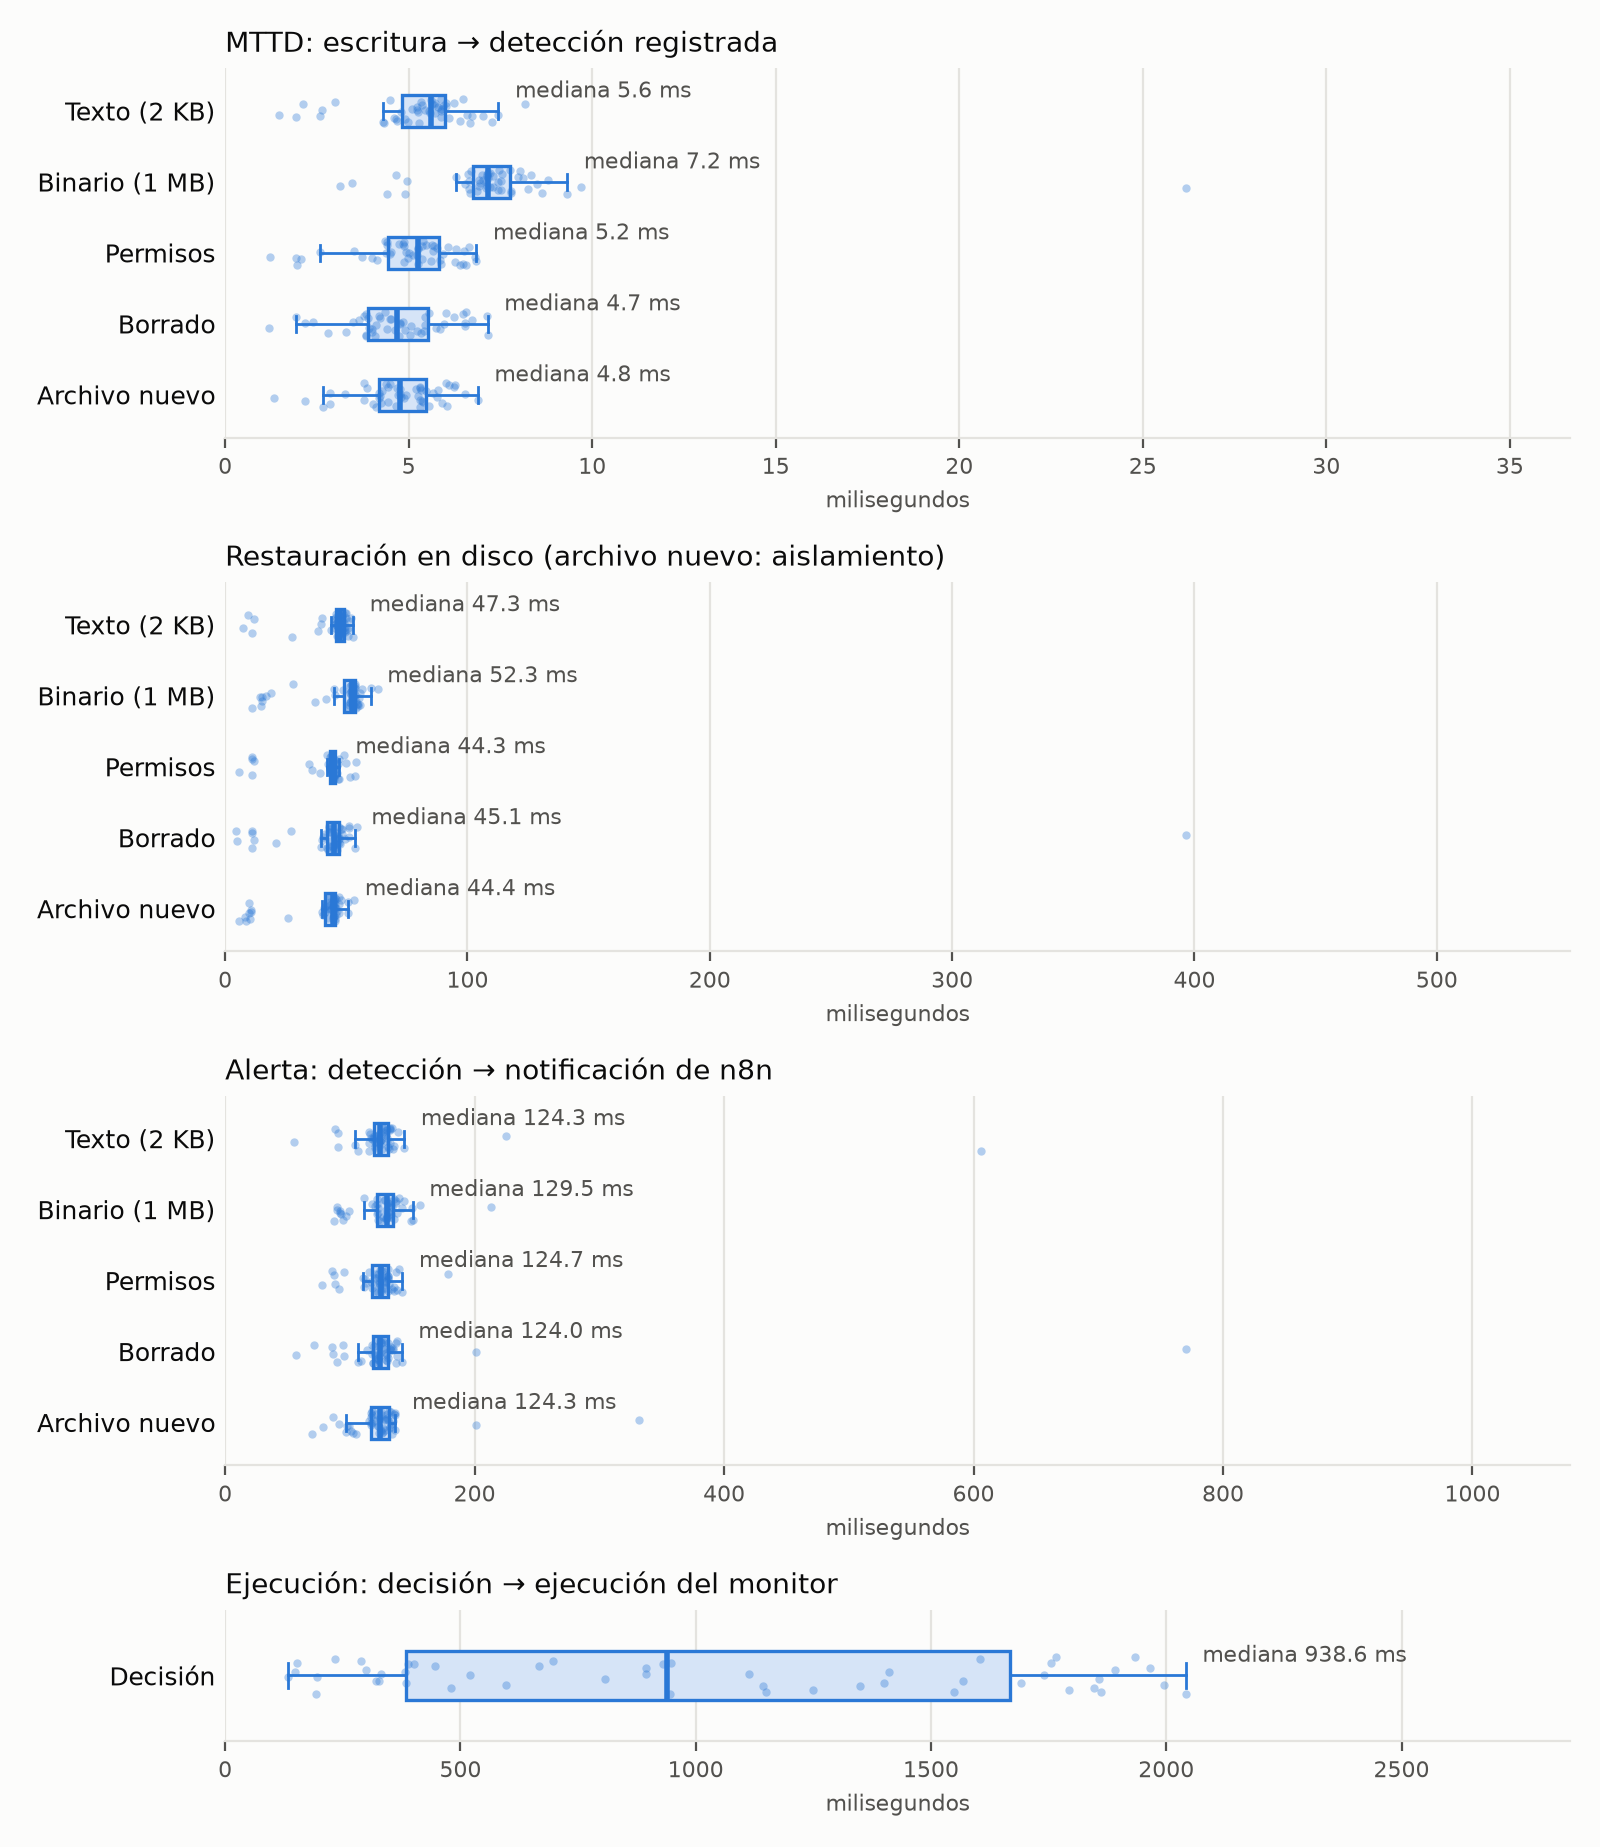
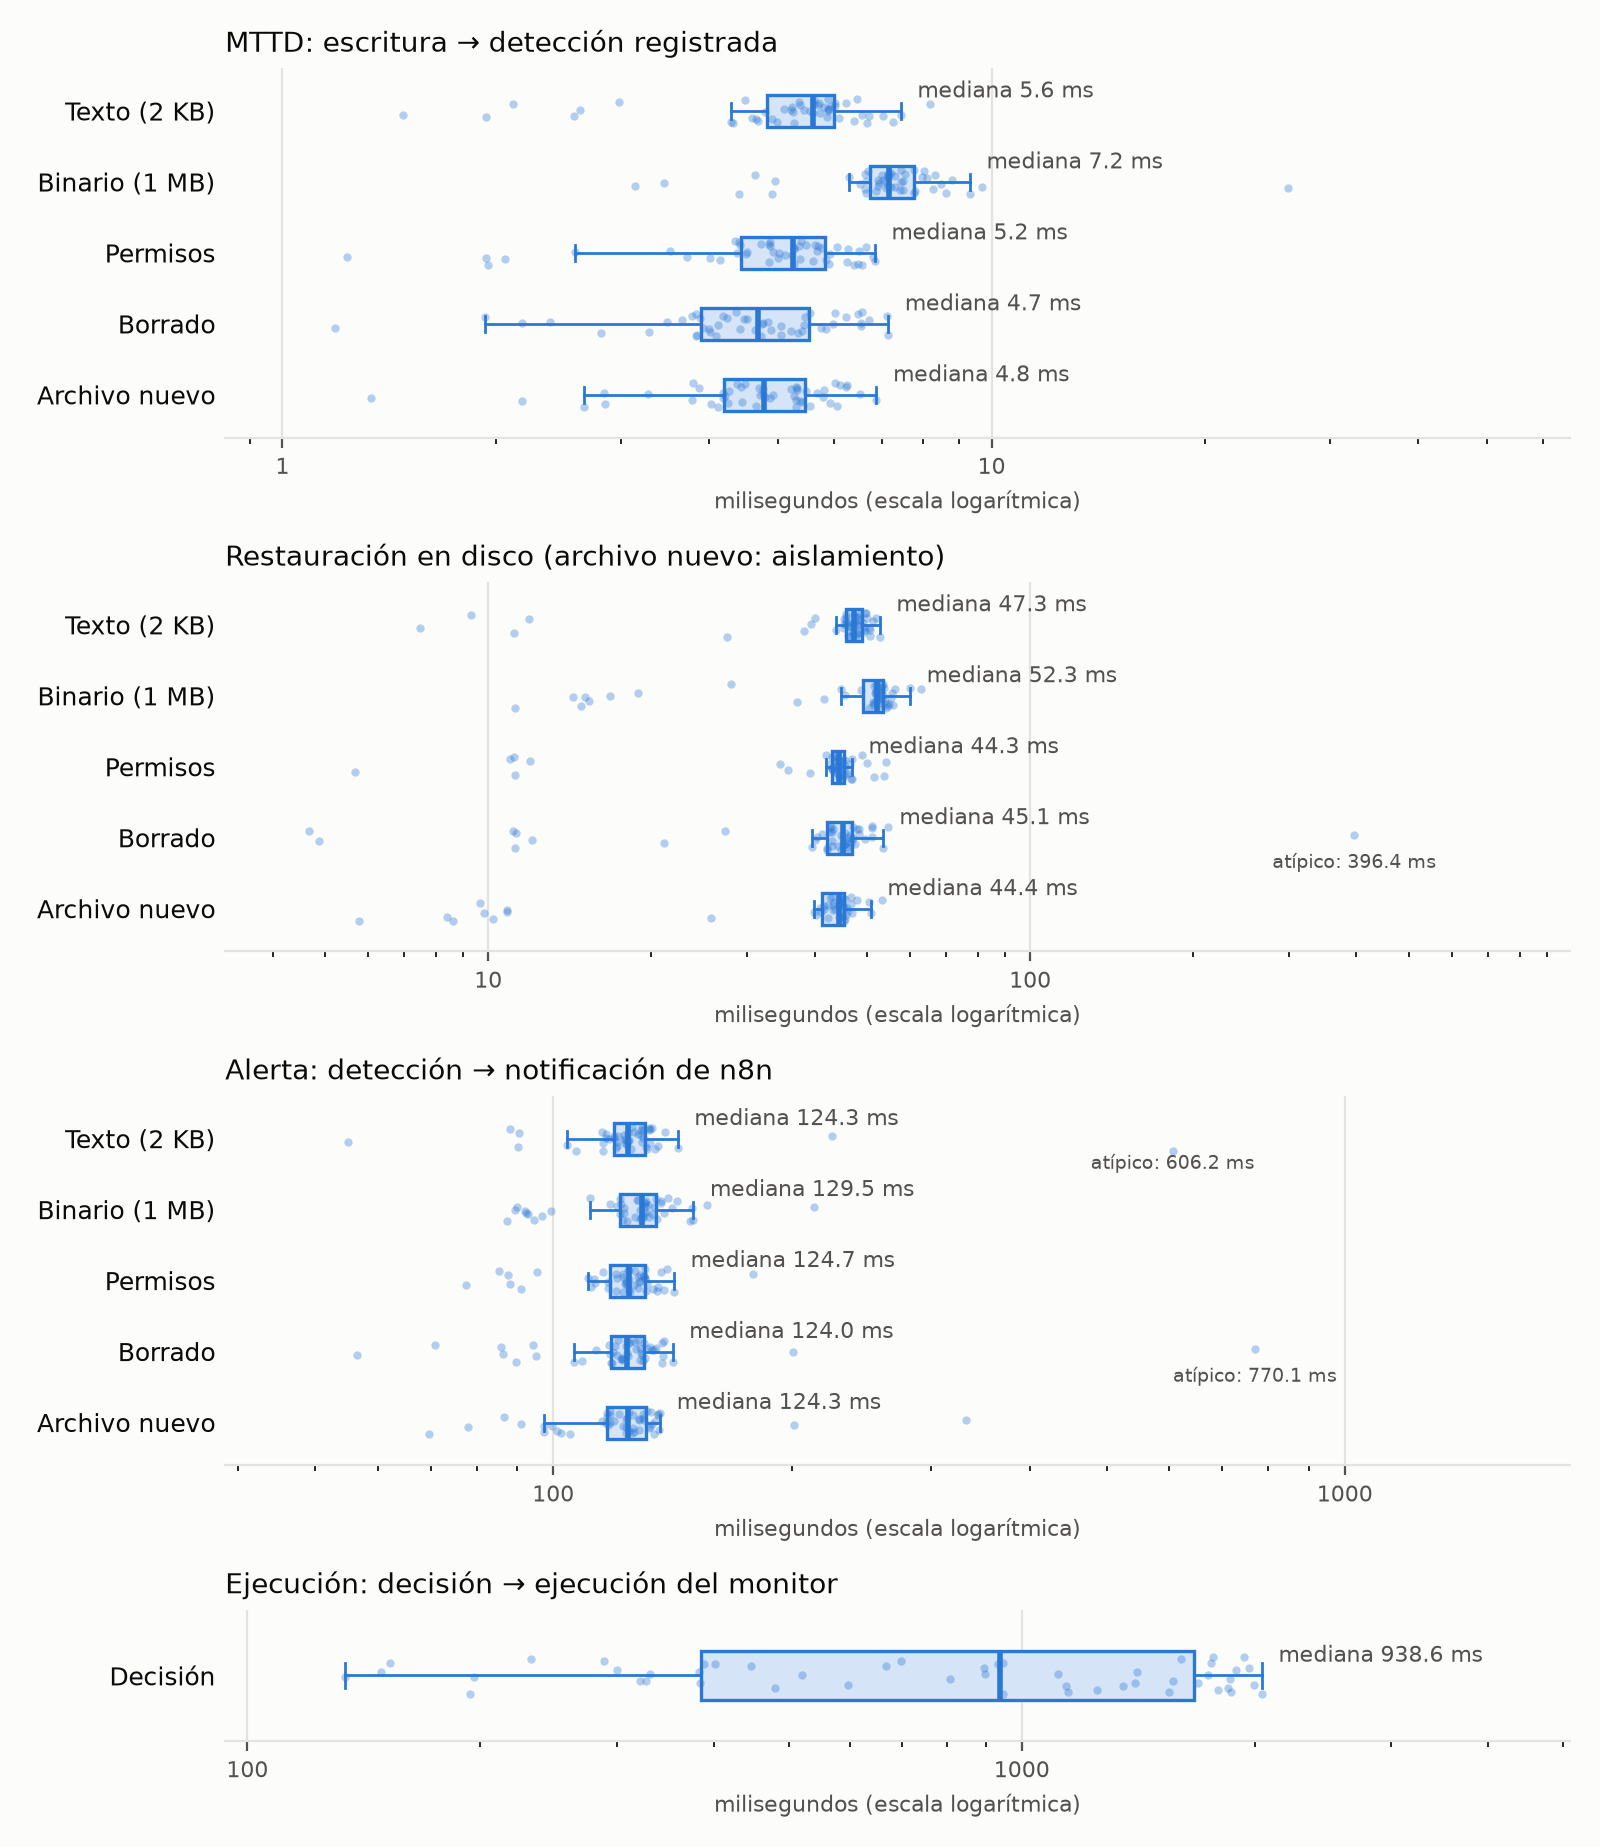
f6: Figura 5.1 en escala logarítmica con el atípico anotado; firmas ocultas en las capturas
resumir_metricas.py (solo la parte que grafica): el eje pasa a escala
logarítmica y el mayor atípico de cada fila se anota con su valor, para que un
solo valor de 396 ms no aplaste la distribución. Se regeneraron los gráficos de
las corridas; los CSV y los resúmenes no cambian. En las Figuras 4.2 y 4.3 se
tapó la firma de los enlaces locales.

diff --git a/scripts/resumir_metricas.py b/scripts/resumir_metricas.py
@@ -97,10 +97,14 @@ def graficar(grupos, archivo_png):
     import matplotlib
     matplotlib.use("Agg")
     import matplotlib.pyplot as plt
+    import matplotlib.ticker
 
     superficie, tinta, tinta_suave, grilla, serie = "#fcfcfb", "#0b0b0b", "#52514e", "#e4e3df", "#2a78d6"
 
     # Un panel por métrica, cada uno con su propia escala (nunca dos escalas en un mismo eje).
+    # La escala es logarítmica: con escala lineal, un solo valor atípico (por ejemplo 396 ms en una
+    # serie con mediana de 45 ms) estiraba el eje y aplastaba el resto de la distribución. Los
+    # atípicos se siguen dibujando y el mayor de cada fila se anota con su valor.
     # La restauración en disco y el aislamiento del archivo nuevo van en el mismo panel: las dos
     # miden cuándo el disco quedó otra vez como en la baseline.
     paneles = [
@@ -143,9 +147,18 @@ def graficar(grupos, archivo_png):
             fin_bigote = max(v for v in valores if v <= q3 + 1.5 * (q3 - q1))
             eje.annotate(f"mediana {mediana:.1f} ms", (fin_bigote, posicion), xytext=(6, 7),
                          textcoords="offset points", va="center", fontsize=8, color=tinta_suave)
+            # El valor más alto se anota si es un atípico lejano (más del triple del p95)
+            maximo = max(valores)
+            if maximo > 3 * percentil(valores, 95):
+                eje.annotate(f"atípico: {maximo:.1f} ms", (maximo, posicion), xytext=(0, -9),
+                             textcoords="offset points", ha="center", va="center", fontsize=7,
+                             color=tinta_suave)
         eje.set_yticks(list(posiciones), [n for n, _ in datos], fontsize=9, color=tinta)
         eje.set_title(titulo, loc="left", fontsize=10, color=tinta, pad=6)
-        eje.set_xlabel("milisegundos", fontsize=8, color=tinta_suave)
+        eje.set_xscale("log")
+        eje.xaxis.set_major_formatter(matplotlib.ticker.FuncFormatter(lambda x, _: f"{x:g}"))
+        eje.xaxis.set_minor_formatter(matplotlib.ticker.NullFormatter())
+        eje.set_xlabel("milisegundos (escala logarítmica)", fontsize=8, color=tinta_suave)
         eje.tick_params(axis="x", labelsize=8, colors=tinta_suave)
         eje.tick_params(axis="y", length=0)
         eje.grid(axis="x", color=grilla, linewidth=0.8)
@@ -153,8 +166,8 @@ def graficar(grupos, archivo_png):
         for lado in ("top", "right", "left"):
             eje.spines[lado].set_visible(False)
         eje.spines["bottom"].set_color(grilla)
-        # Lugar a la derecha para la etiqueta de la mediana
-        eje.set_xlim(0, max(max(v) for _, v in datos) * 1.4)
+        # Lugar a la derecha para las etiquetas (en escala logarítmica, un factor y no una suma)
+        eje.set_xlim(min(min(v) for _, v in datos) * 0.7, max(max(v) for _, v in datos) * 2.5)
         eje.set_ylim(0.4, len(datos) + 0.6)
     fig.tight_layout()
     fig.savefig(archivo_png, dpi=200, facecolor=superficie)

diff --git a/docs/informe/04_desarrollo.md b/docs/informe/04_desarrollo.md
@@ -460,7 +460,8 @@ modificado (`config_test.txt`), la fecha y hora, los hashes anterior y nuevo, la
 en cuarentena, el historial del archivo, que el monitor ya lo restauró desde la bóveda y el diff con
 la línea agregada. Debajo aparecen los enlaces locales de respaldo y los botones "Fue un incidente" y
 "Era un cambio autorizado". El último mensaje es la confirmación de n8n: "Decisión EJECUTADA:
-INCIDENTE sobre config_test.txt (evento #43)", tomada por telegram.
+INCIDENTE sobre config_test.txt (evento #43)", tomada por telegram. La firma de los enlaces locales
+se ocultó en la captura.
 
 La Figura 4.3 muestra el mismo mensaje en el teléfono desde el que se tomó la decisión.
 
@@ -471,7 +472,7 @@ mensaje: archivo, fecha y hora del evento, hashes, ubicación en cuarentena, his
 diff. A la derecha, la parte inferior: los enlaces locales de respaldo, los botones de decisión y la
 confirmación "Decisión EJECUTADA: INCIDENTE sobre config_test.txt (evento #43)". Las capturas se
 recortaron para quitar la barra de estado del teléfono, cuya hora corresponde al momento de la
-captura y no al del evento.
+captura y no al del evento, y se ocultó la firma de los enlaces locales.
 
 ## 4.8 Configuración y puesta en marcha
 

diff --git a/docs/informe/05_resultados.md b/docs/informe/05_resultados.md
@@ -311,7 +311,9 @@ La Figura 5.1 resume la distribución de las mediciones de la corrida principal.
 
 **Figura 5.1.** Distribución por caso del tiempo hasta la detección, la restauración en disco, la
 latencia de alerta (Telegram simulado) y la ejecución de decisiones. Cada punto es una repetición;
-las cajas indican el rango intercuartil y la mediana. Cada panel tiene su propia escala. Fuente:
+las cajas indican el rango intercuartil y la mediana. Cada panel tiene su propia escala, que es
+logarítmica para que un valor atípico no comprima el resto de la distribución; el mayor atípico de
+cada fila se anota con su valor cuando supera el triple del p95. Fuente:
 `resultados/grafico_20261015_232407.png`.
 
 ## 5.9 Efecto de las correcciones de la segunda instancia
